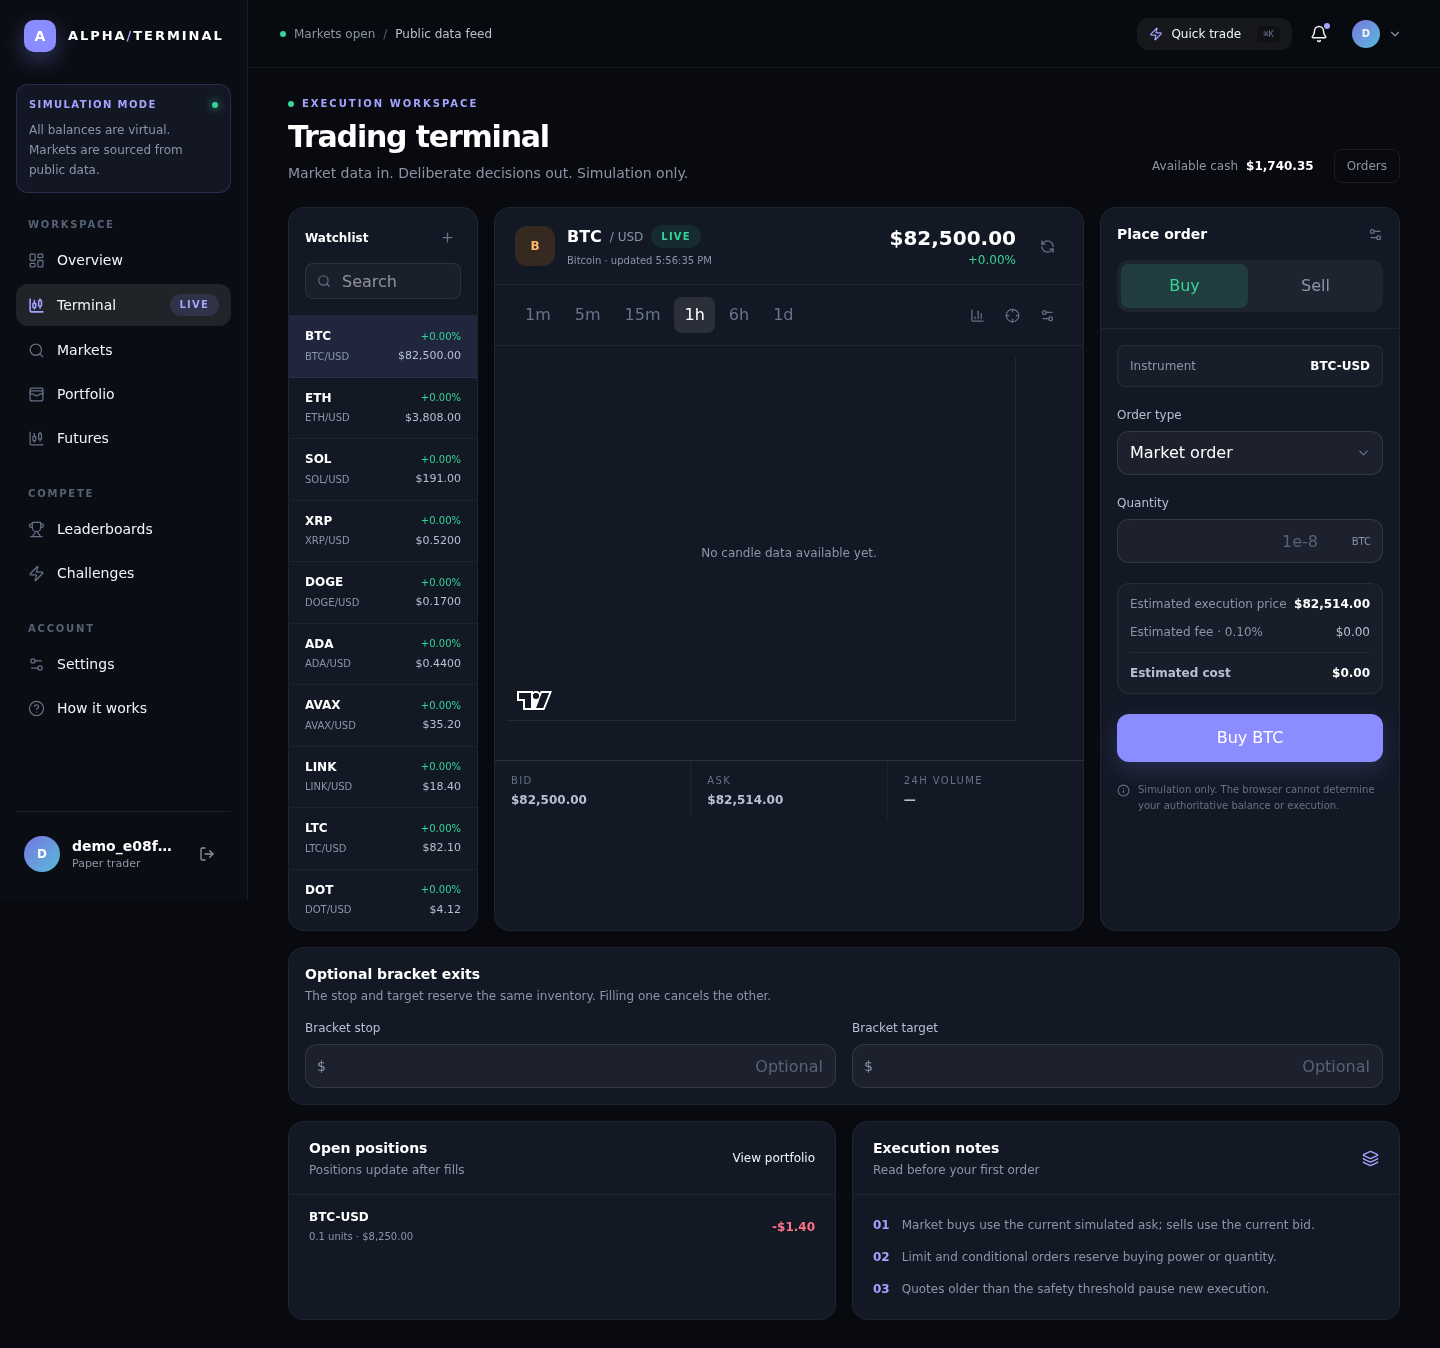
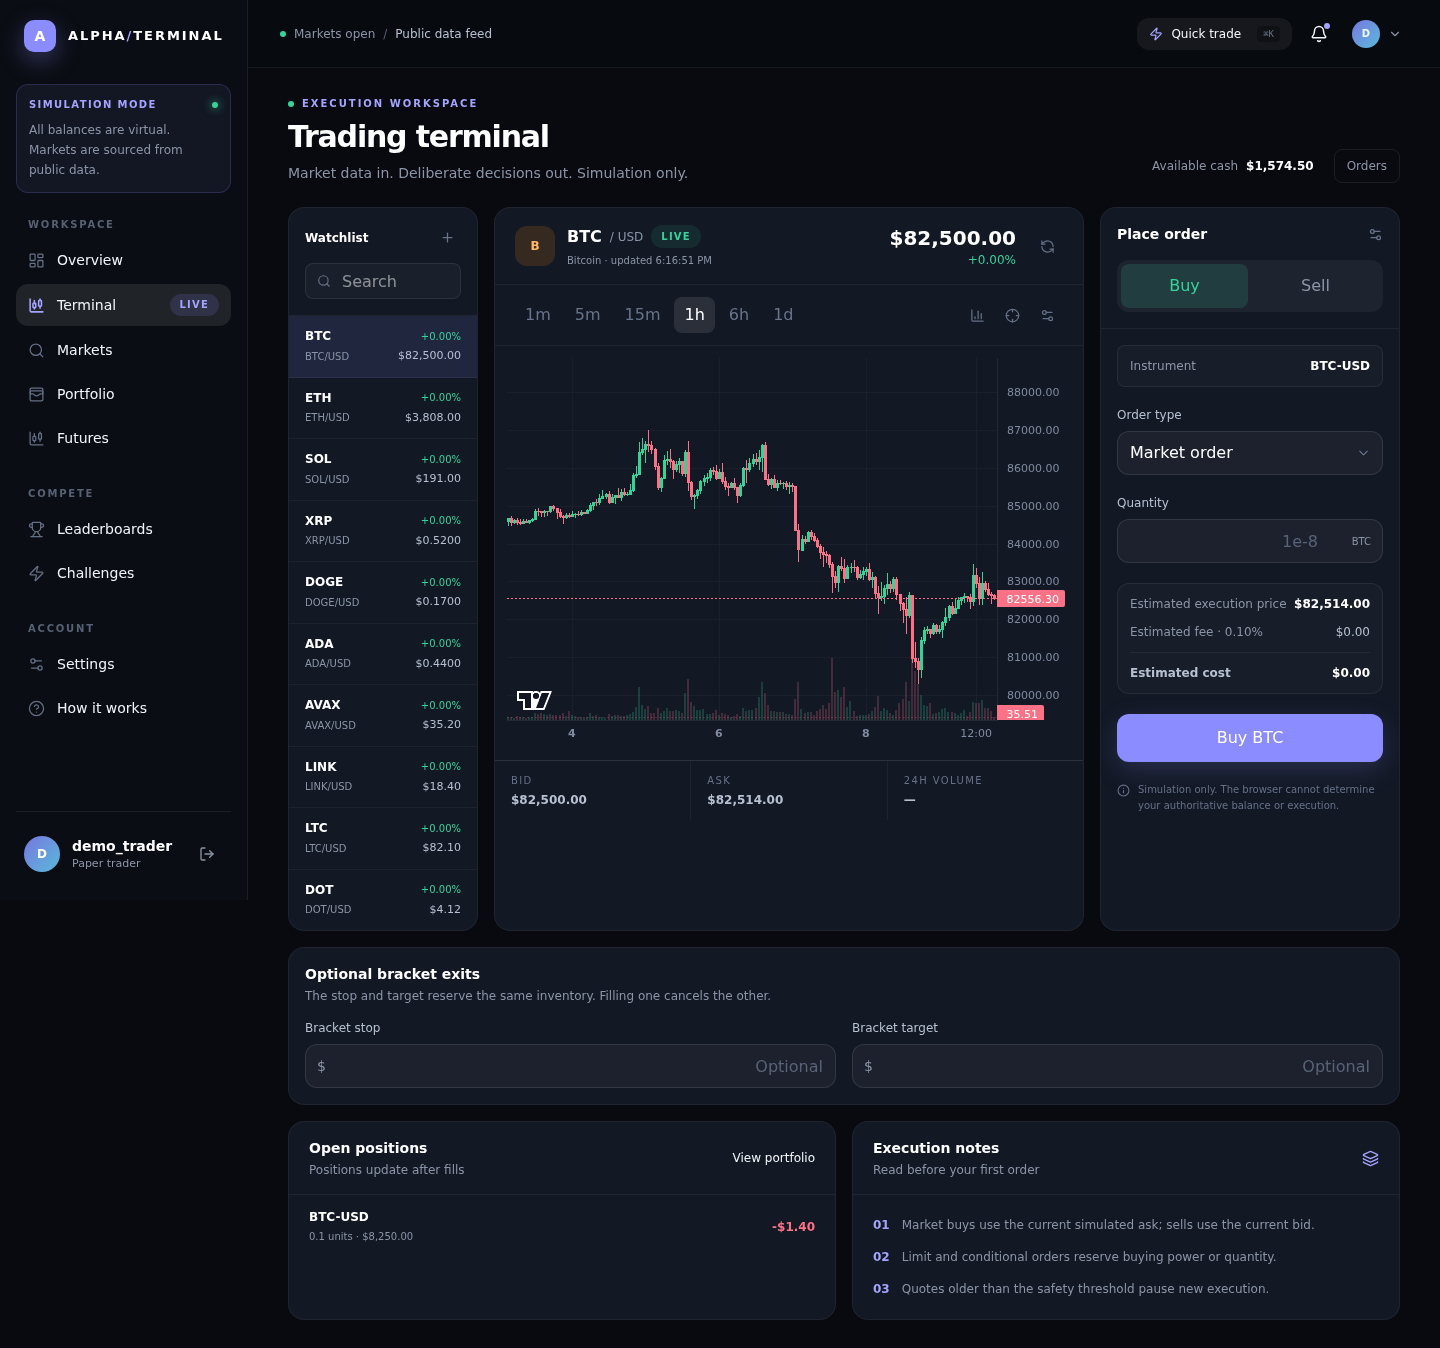
docs: polish public release materials

diff --git a/scripts/capture-screenshots.ts b/scripts/capture-screenshots.ts
@@ -82,11 +82,26 @@ async function prepareDemoData() {
     create: { id: "weekly-discipline-challenge", name: "The 7-Day Discipline", description: "Build positive simulated performance while keeping your decisions measured.", startingCapital: "10000", startTime: new Date(Date.now() - 86_400_000), endTime: new Date(Date.now() + 6 * 86_400_000), configuration: { eligibleMarkets: ["CRYPTO"], maxLeverage: 1, ranking: "return_percentage", minimumTrades: 1 }, status: "ACTIVE" },
     update: { status: "ACTIVE", startTime: new Date(Date.now() - 86_400_000), endTime: new Date(Date.now() + 6 * 86_400_000) },
   });
+  const btc = await db.instrument.findUnique({ where: { symbol: "BTC-USD" } });
+  if (btc) {
+    const anchor = Math.floor(Date.now() / 3_600_000) * 3_600_000;
+    await db.marketCandle.createMany({
+      skipDuplicates: true,
+      data: Array.from({ length: 80 }, (_, index) => {
+        const open = 76_800 + index * 72 + Math.sin(index / 4) * 420;
+        const close = open + Math.sin(index * 1.7) * 180 + 80;
+        const high = Math.max(open, close) + 160 + (index % 5) * 18;
+        const low = Math.min(open, close) - 145 - (index % 4) * 15;
+        const openTime = new Date(anchor - (79 - index) * 3_600_000);
+        return { instrumentId: btc.id, timeframe: "1h", openTime, closeTime: new Date(openTime.getTime() + 3_600_000), open: open.toFixed(2), high: high.toFixed(2), low: low.toFixed(2), close: close.toFixed(2), volume: (120 + index * 2.4).toFixed(2), isComplete: true };
+      }),
+    });
+  }
 }
 
 async function capture() {
   mkdirSync(output, { recursive: true });
-  const credentials = { username: `demo_${randomUUID().replaceAll("-", "").slice(0, 10)}`, email: `demo_${randomUUID().replaceAll("-", "").slice(0, 10)}@example.test`, password: "demo-screenshot-password-2026", initialCapital: 10000 };
+  const credentials = { username: "demo_trader", email: "demo@example.test", password: "demo-screenshot-password-2026", initialCapital: 10000 };
   const browser = await chromium.launch({ headless: true });
   const context = await browser.newContext({ viewport: { width: 1440, height: 900 }, deviceScaleFactor: 1 });
   const page = await context.newPage();
@@ -103,6 +118,11 @@ async function capture() {
       return { status: response.status, body: await response.json() };
     }, randomUUID());
     if (order.status !== 201) throw new Error(`Could not create screenshot demo order: ${JSON.stringify(order.body)}`);
+    const derivativeOrder = await page.evaluate(async clientOrderId => {
+      const response = await fetch("/api/orders", { method: "POST", headers: { "Content-Type": "application/json" }, body: JSON.stringify({ symbol: "BTC-PERP", side: "BUY", orderType: "MARKET", quantity: "0.01", leverage: 5, positionSide: "LONG", clientOrderId, timeInForce: "IOC" }) });
+      return { status: response.status, body: await response.json() };
+    }, randomUUID());
+    if (derivativeOrder.status !== 201) throw new Error(`Could not create screenshot derivative position: ${JSON.stringify(derivativeOrder.body)}`);
 
     const pages = [
       ["landing", "/"],
@@ -115,7 +135,7 @@ async function capture() {
     ] as const;
     for (const [name, path] of pages) {
       await page.goto(`${origin}${path}`, { waitUntil: "domcontentloaded" });
-      await page.waitForTimeout(1200);
+      await page.waitForTimeout(path.startsWith("/terminal") ? 9500 : 1200);
       await page.screenshot({ path: join(output, `${name}.png`), fullPage: true, animations: "disabled" });
     }
   } finally {

diff --git a/README.md b/README.md
@@ -25,6 +25,12 @@
 | :---: | :---: | :---: |
 | [![Futures](docs/screenshots/futures.png)](docs/screenshots/futures.png) | [![Challenges](docs/screenshots/challenges.png)](docs/screenshots/challenges.png) | [![Settings](docs/screenshots/settings.png)](docs/screenshots/settings.png) |
 
+<details>
+<summary>View the marketing page</summary>
+<br />
+<p align="center"><a href="docs/screenshots/landing.png"><img src="docs/screenshots/landing.png" alt="ALPHA TERMINAL landing page" width="900" /></a></p>
+</details>
+
 ## Why this project exists
 
 Trading interfaces make it easy to focus on execution and forget process. ALPHA TERMINAL is designed as a deliberate practice environment: every account has virtual capital, every balance-changing action is recorded server-side, and stale or ambiguous market data is rejected instead of silently producing a misleading result.
@@ -116,7 +122,7 @@ Docker is optional. The application can be developed, tested, built, and run dir
 ### 1. Install dependencies
 
 ```bash
-git clone https://github.com/<your-account>/alpha-terminal.git
+git clone https://github.com/DragonPlayz-1/alpha-terminal.git
 cd alpha-terminal
 npm ci
 ```
@@ -290,6 +296,9 @@ npm test
 npm run build
 npm run test:e2e
 npm audit
+
+# Recreate the anonymized README screenshots locally
+npm run screenshots
 ```
 
 The E2E suite builds and starts a copied standalone artifact, exercises the production HTTP surface with Playwright, verifies session/order/privacy behavior, tests oversized chunked bodies, covers recovery email flows, and checks worker exclusivity and takeover.
